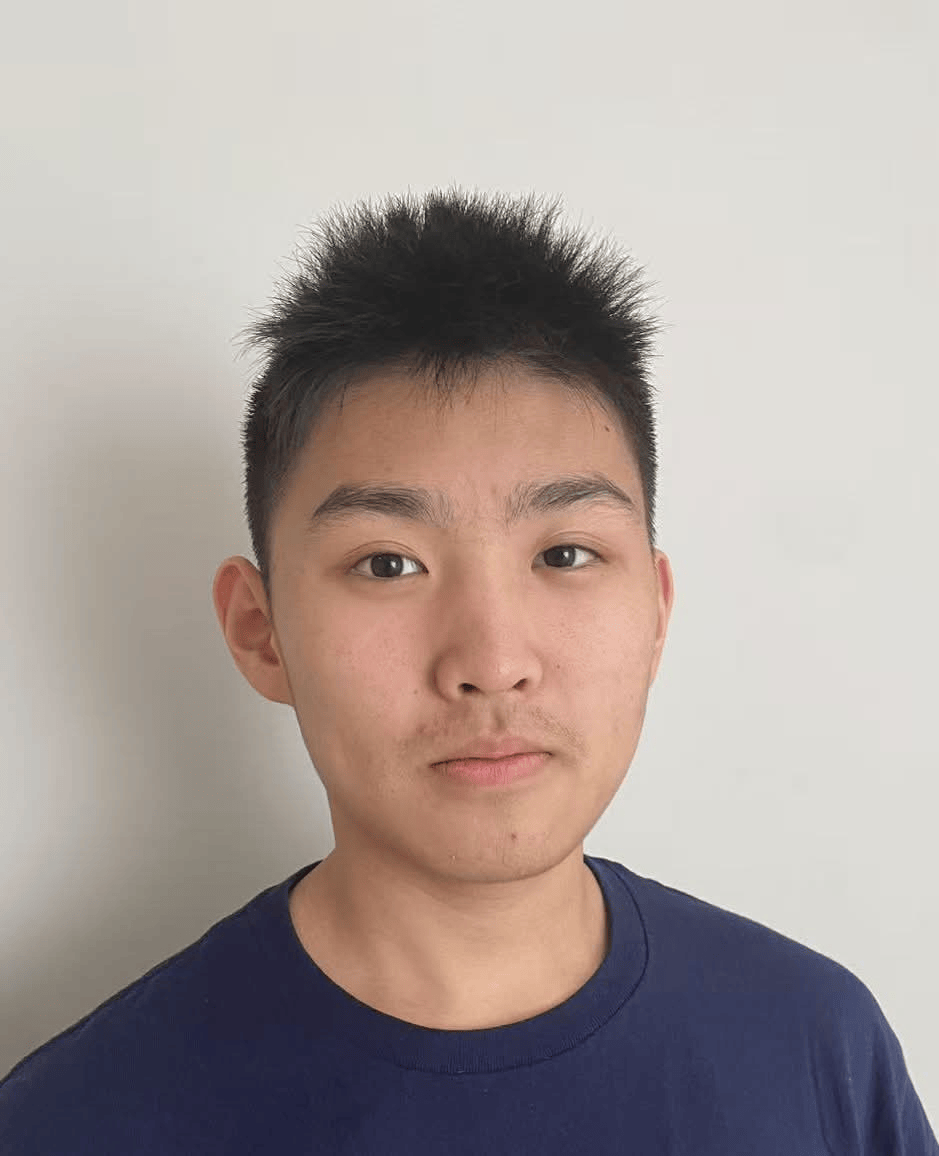
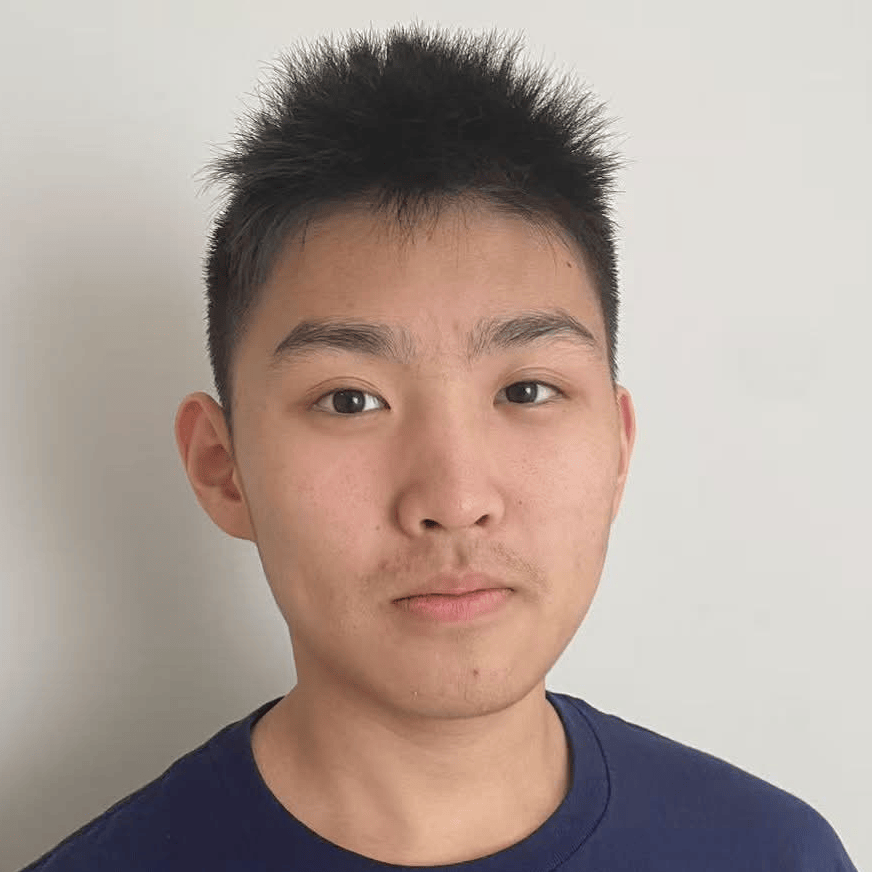
new team photos

Changed region(s): [[0.0, 0.031, 1.0, 1.0], [0.0619, 0.3096, 0.1858, 0.3406]]

diff --git a/config/team.js b/config/team.js
@@ -9,6 +9,7 @@ import Heidi from '@public/assets/directors/Heidi.png'
 import Helen from '@public/assets/directors/Helen.png'
 import Jack from '@public/assets/directors/Jack.png'
 import Leo from '@public/assets/directors/Leo.png'
+import Luna from '@public/assets/directors/Luna.jpg'
 import Manasva from '@public/assets/directors/Manasva.png'
 import Maryam from '@public/assets/directors/Maryam.png'
 import MichaelH from '@public/assets/directors/MichaelH.png'
@@ -20,7 +21,7 @@ import Prince from '@public/assets/directors/Prince.png'
 import Shanna from '@public/assets/directors/Shanna.png'
 import Simone from '@public/assets/directors/Simone.png'
 import Sowmya from '@public/assets/directors/Sowmya.png'
-import Terry from '@public/assets/directors/Terry.png'
+import Terry from '@public/assets/directors/Terry.jpg'
 import Yanzi from '@public/assets/directors/Yanzi.png'
 
 // Sourced from the OCMC Staff MasterList (Current Staff column).
@@ -63,6 +64,7 @@ export const team = [
         position: "Accountant"
     },
     {
+        image: Luna,
         firstName: "Luna",
         lastName: "Li",
         position: "Operations Coordinator"
